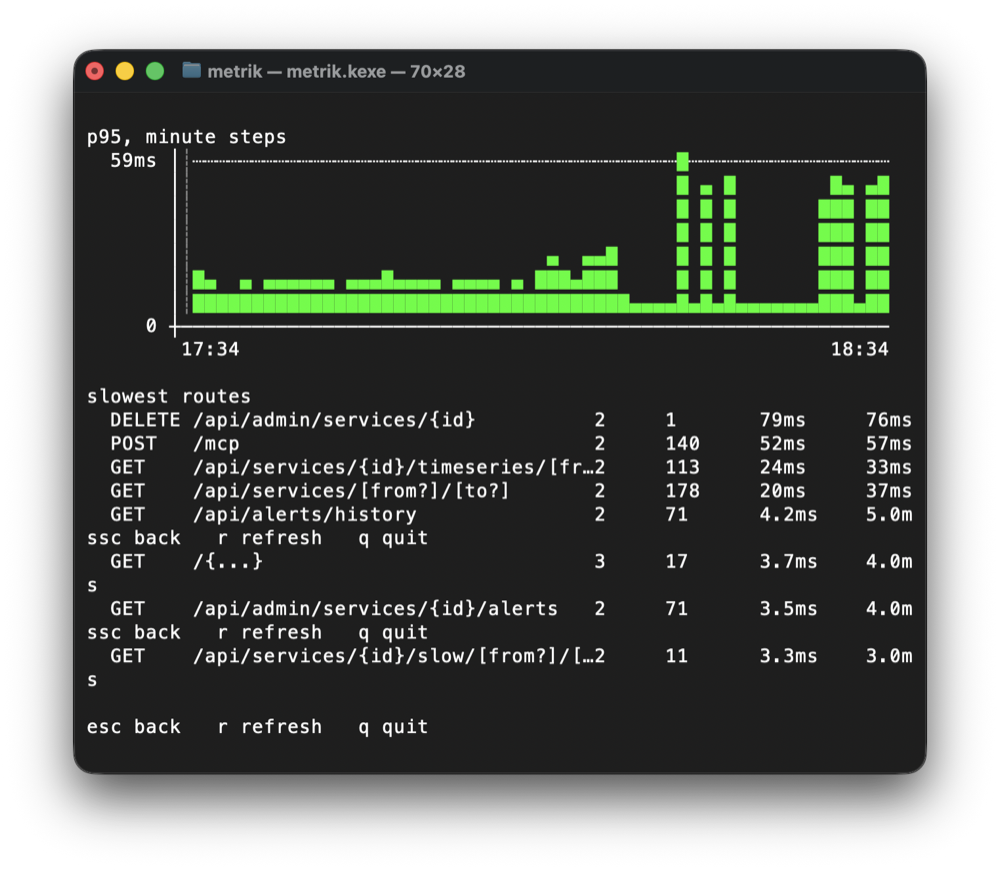
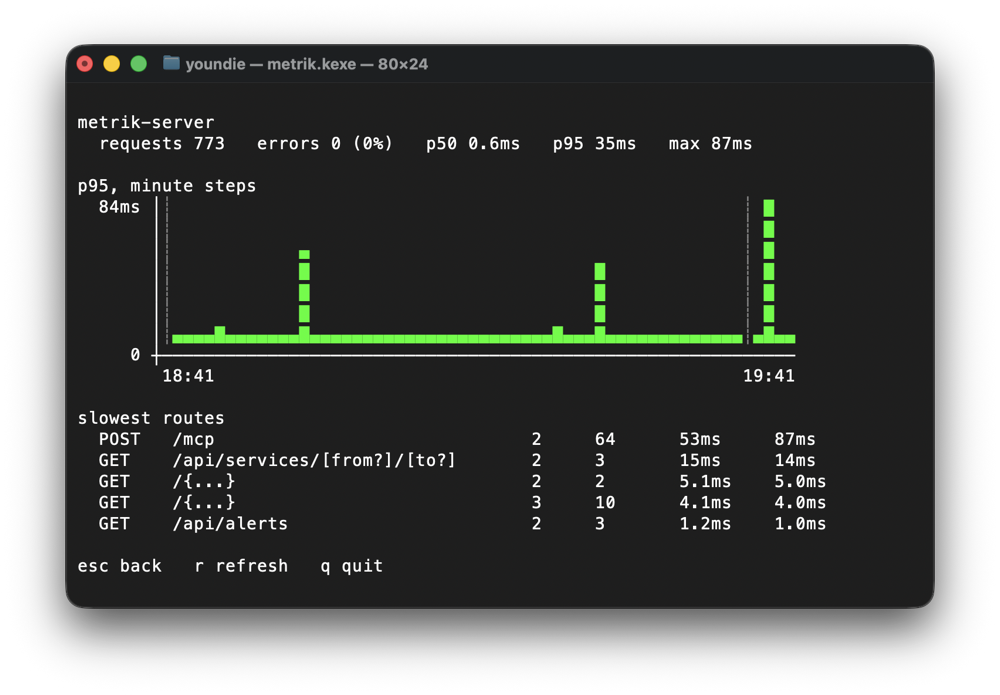
docs: переснять снимок клиента после M-112
Прежний был сделан до правки и показывал ровно то, что чинилось: тройную
подсказку по клавишам, перенос правой колонки и пунктир порога, прилипший
к потолку.

На новом видно, как это выглядит теперь: подсказка одна и внизу, строки
не переносятся, а пунктира порога нет вовсе — у latency здесь 2000 мс при
пике 84 мс, порог в шкалу не попадает, и рисовать его значило бы врать.
Серые колонки по краям — разрывы, минуты без единого пакета.

Changed region(s): [[0.062, 0.0302, 0.961, 0.9065], [0.651, 0.6043, 0.744, 0.7856]]

diff --git a/docs/services/metrik-cli.md b/docs/services/metrik-cli.md
@@ -13,9 +13,10 @@ involved_services: [metrik-cli, metrik-server]
 
 ![Карточка сервиса в metrik-cli](../images/metrik-cli.png)
 
-> Снимок сделан **до** M-112 и показывает три дефекта, которые на нём и обнаружились: тройная
-> подсказка по клавишам, перенос правой колонки и пунктир порога на 59 мс при пороге 1000.
-> Все три исправлены — снимок стоит переснять.
+> Серые пунктирные колонки по краям — разрывы: минуты, за которые сервис ничего не прислал.
+> Пунктира порога на графике нет, и это правильно: у `latency` здесь порог 2000 мс, а пик — 84 мс,
+> то есть порог в шкалу не попадает. Раньше он всё равно рисовался у потолка и утверждал, что
+> порог равен максимуму.
 
 ## Зачем он есть
 

diff --git a/BACKLOG.md b/BACKLOG.md
@@ -621,7 +621,7 @@ FIRING не повторяется на каждом тике, шумному с
       обеим осям, окно вокруг выбранной строки, и порог вне шкалы (плюс граничный случай — порог
       ровно на максимуме, он рисоваться обязан).
 
-      Снимок в README сделан до правки и подлежит пересъёмке.
+      Снимок в README переснят после правки.
 
 ## Отложено сознательно
 
